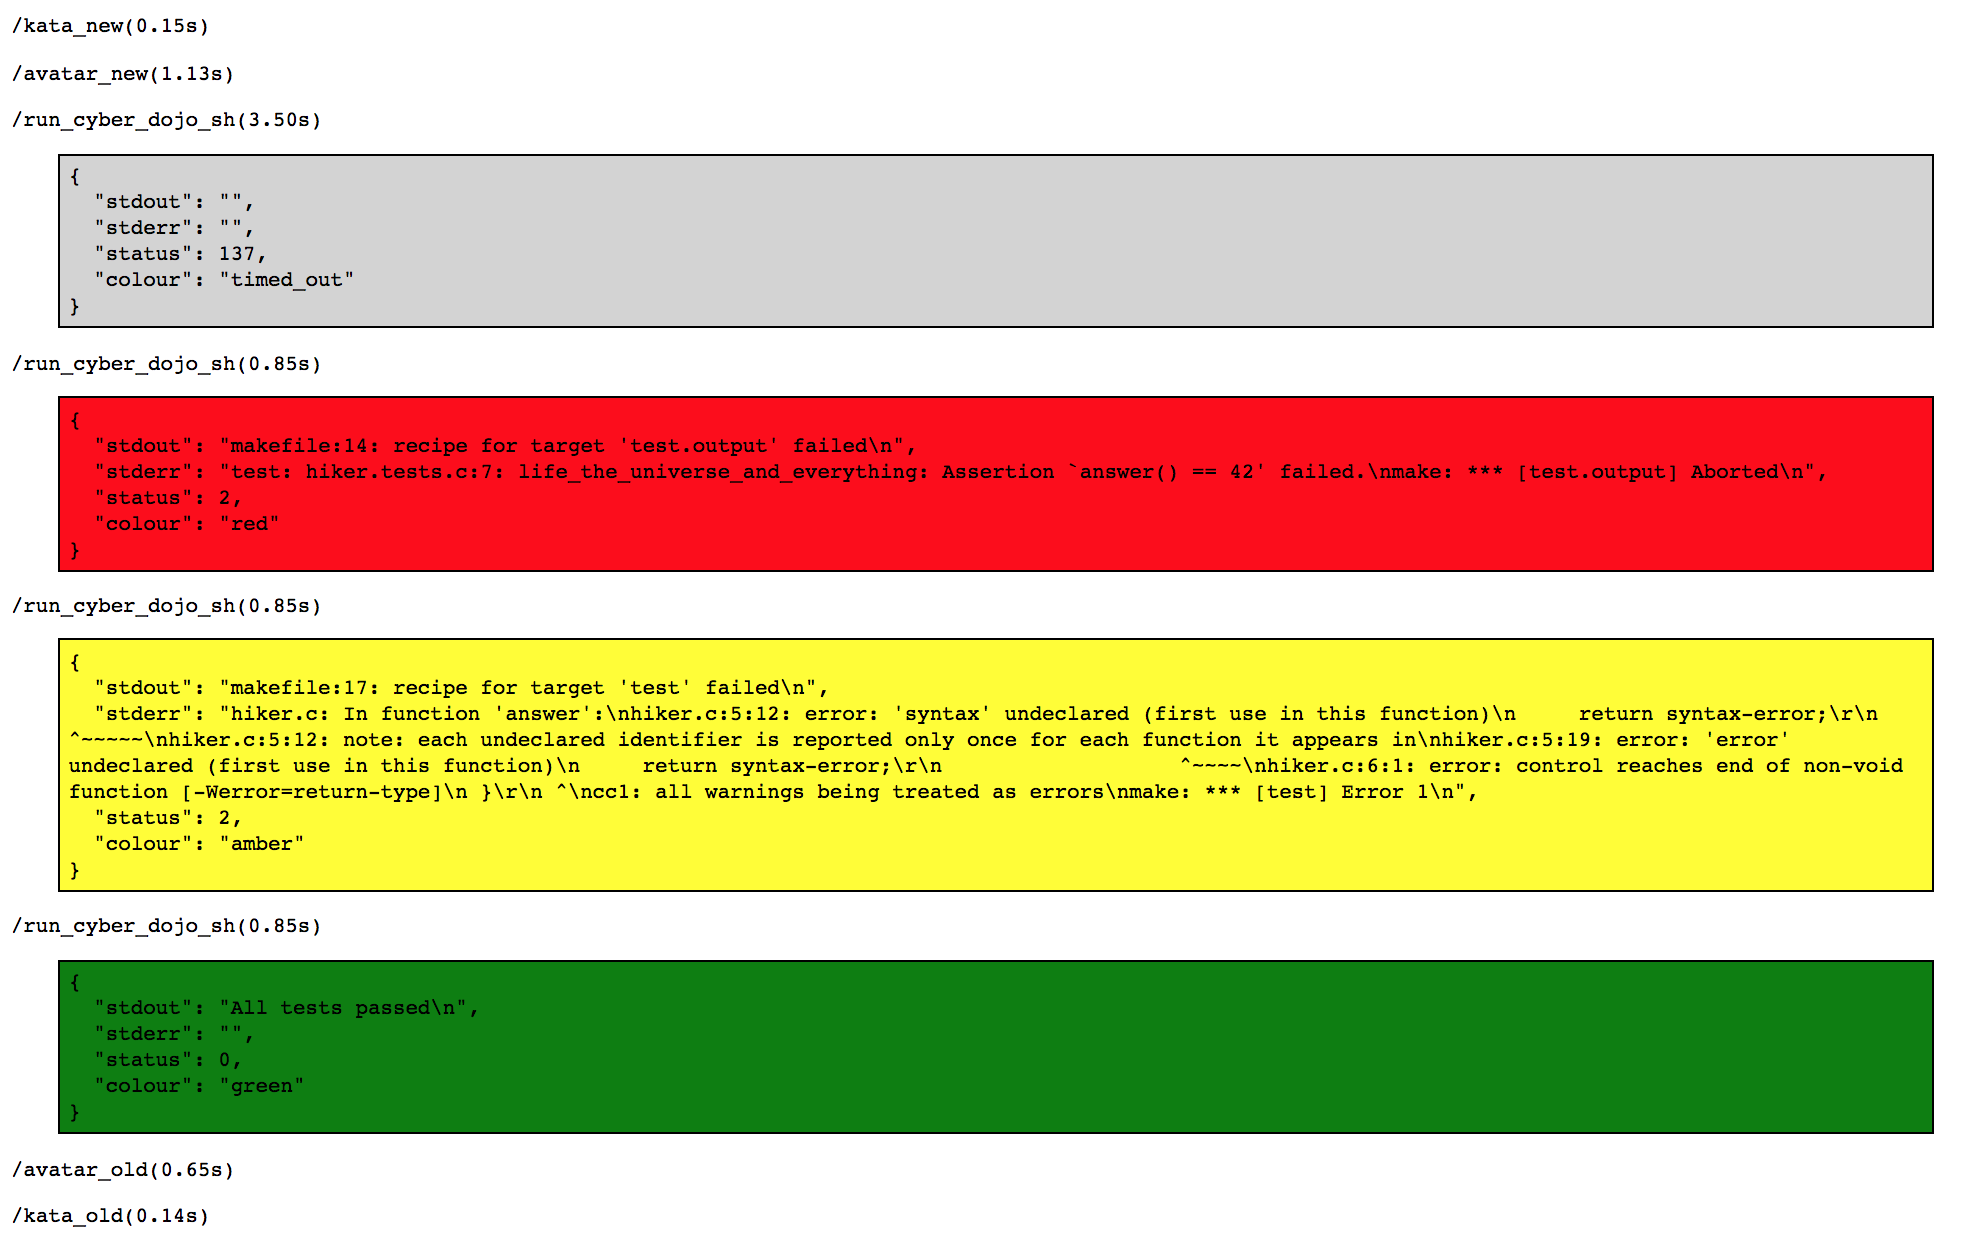
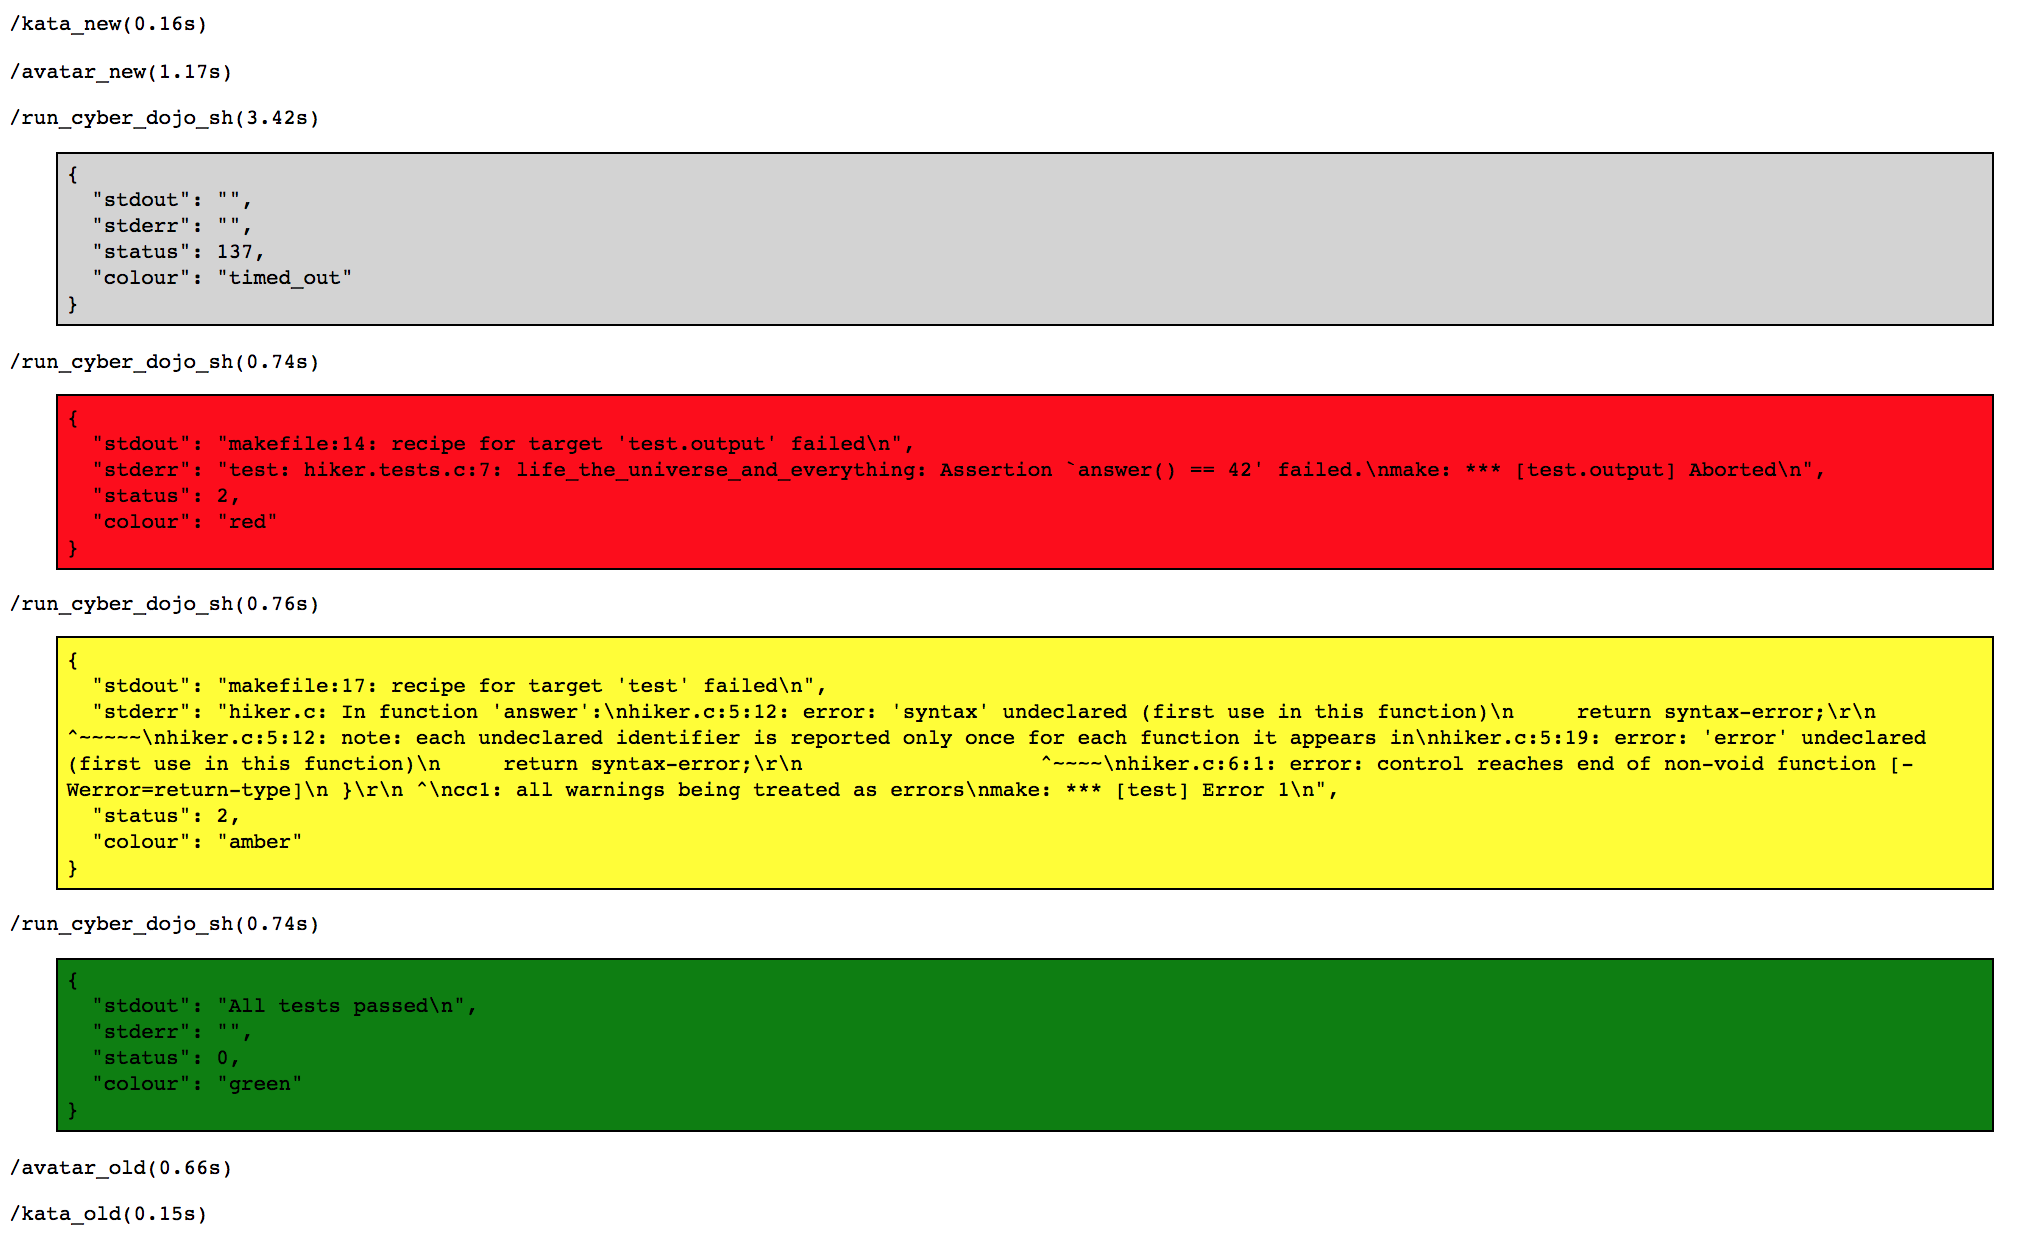
refactoring; cache the red-amber-green lambda for ~0.1 second speed up

Changed region(s): [[0.0, 0.5201, 0.999, 1.0], [0.0, 0.0, 0.999, 0.5201]]

diff --git a/server/src/runner.rb b/server/src/runner.rb
@@ -21,6 +21,7 @@ class Runner # stateful
 
   def initialize(external)
     @external = external
+    @rags = {}
   end
 
   # - - - - - - - - - - - - - - - - - - - - - - - - - - - -
@@ -206,23 +207,32 @@ class Runner # stateful
   end
 
   # - - - - - - - - - - - - - - - - - - - - - -
+  # red-amber-green colour of stdout,stderr,status
+  # - - - - - - - - - - - - - - - - - - - - - -
 
   def red_amber_green
     # @stdout and @stderr have been truncated and cleaned.
-    begin
-      # In a crippled container (eg fork-bomb)
-      # the [docker exec] will mostly likely raise.
-      cat_cmd = 'cat /usr/local/bin/red_amber_green.rb'
-      rag_lambda = shell.assert(docker_exec(cat_cmd))
-      rag = eval(rag_lambda)
-      colour = rag.call(@stdout, @stderr, @status).to_s
-      unless ['red','amber','green'].include? colour
-        colour = 'amber'
-      end
-      colour
-    rescue
-      'amber'
+    # Caching the rag-lambdas typically saves
+    # about 0.15 seconds per [test] event.
+    @rags[image_name] ||= rag_lambda
+    colour = @rags[image_name].call(@stdout, @stderr, @status)
+    unless [:red,:amber,:green].include?(colour)
+      colour = :amber
     end
+    colour.to_s
+  rescue
+    'amber'
+  end
+
+  # - - - - - - - - - - - - - - - - - - - - - -
+
+  def rag_lambda
+    # In a crippled container (eg fork-bomb)
+    # the [docker exec] will mostly likely raise.
+    cmd = 'cat /usr/local/bin/red_amber_green.rb'
+    docker_cmd = "docker exec #{container_name} bash -c '#{cmd}'"
+    rag_lambda = shell.assert(docker_cmd)
+    eval(rag_lambda)
   end
 
   # - - - - - - - - - - - - - - - - - - - - - - - -
